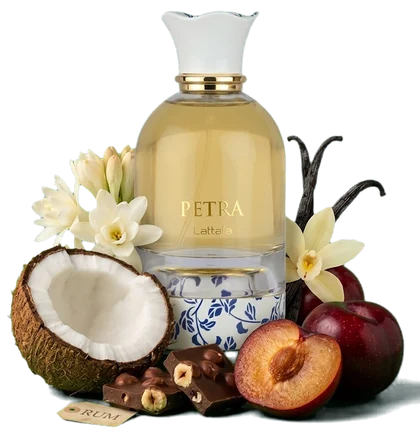
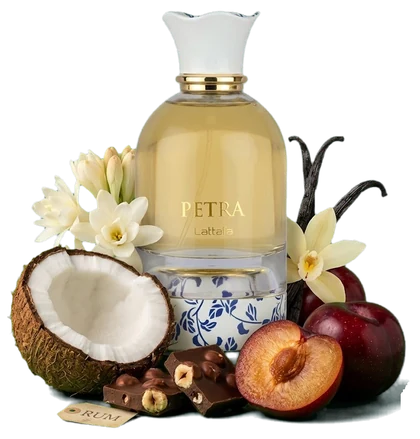
Florales: Fusion Concord, Infinity Gold y Kingdom Women con foto de estudio
estudio.py descarta los velos del fondo (zonas semitransparentes a más de 12 px
de algo sólido): la luz cenital oscurecía el croma y dejaba una mancha arriba.
Se volvieron a recortar todas las fotos con el mismo criterio.

diff --git a/tools/estudio.py b/tools/estudio.py
@@ -59,6 +59,9 @@ def cut(pid):
     a = rgba.getchannel("A")
     # motas casi transparentes fuera; el contorno pierde 1 px (ahí vive el halo del croma mezclado) y se suaviza
     a = a.point(lambda v: 0 if v < 12 else v).filter(ImageFilter.MinFilter(3)).filter(ImageFilter.GaussianBlur(0.6))
+    # velos del fondo (viñeta o luz cenital que oscurece el croma): fuera todo lo que no esté a ≤12 px de algo sólido
+    near = a.point(lambda v: 255 if v > 160 else 0).resize((im.width // 4, im.height // 4)).filter(ImageFilter.MaxFilter(7)).resize(im.size)
+    a = ImageChops.multiply(a, near.point(lambda v: 255 if v > 0 else 0))
     rgba.putalpha(a)
     box = a.point(lambda v: 255 if v > 40 else 0).getbbox()
     pad = round(max(im.size) * 0.02)
